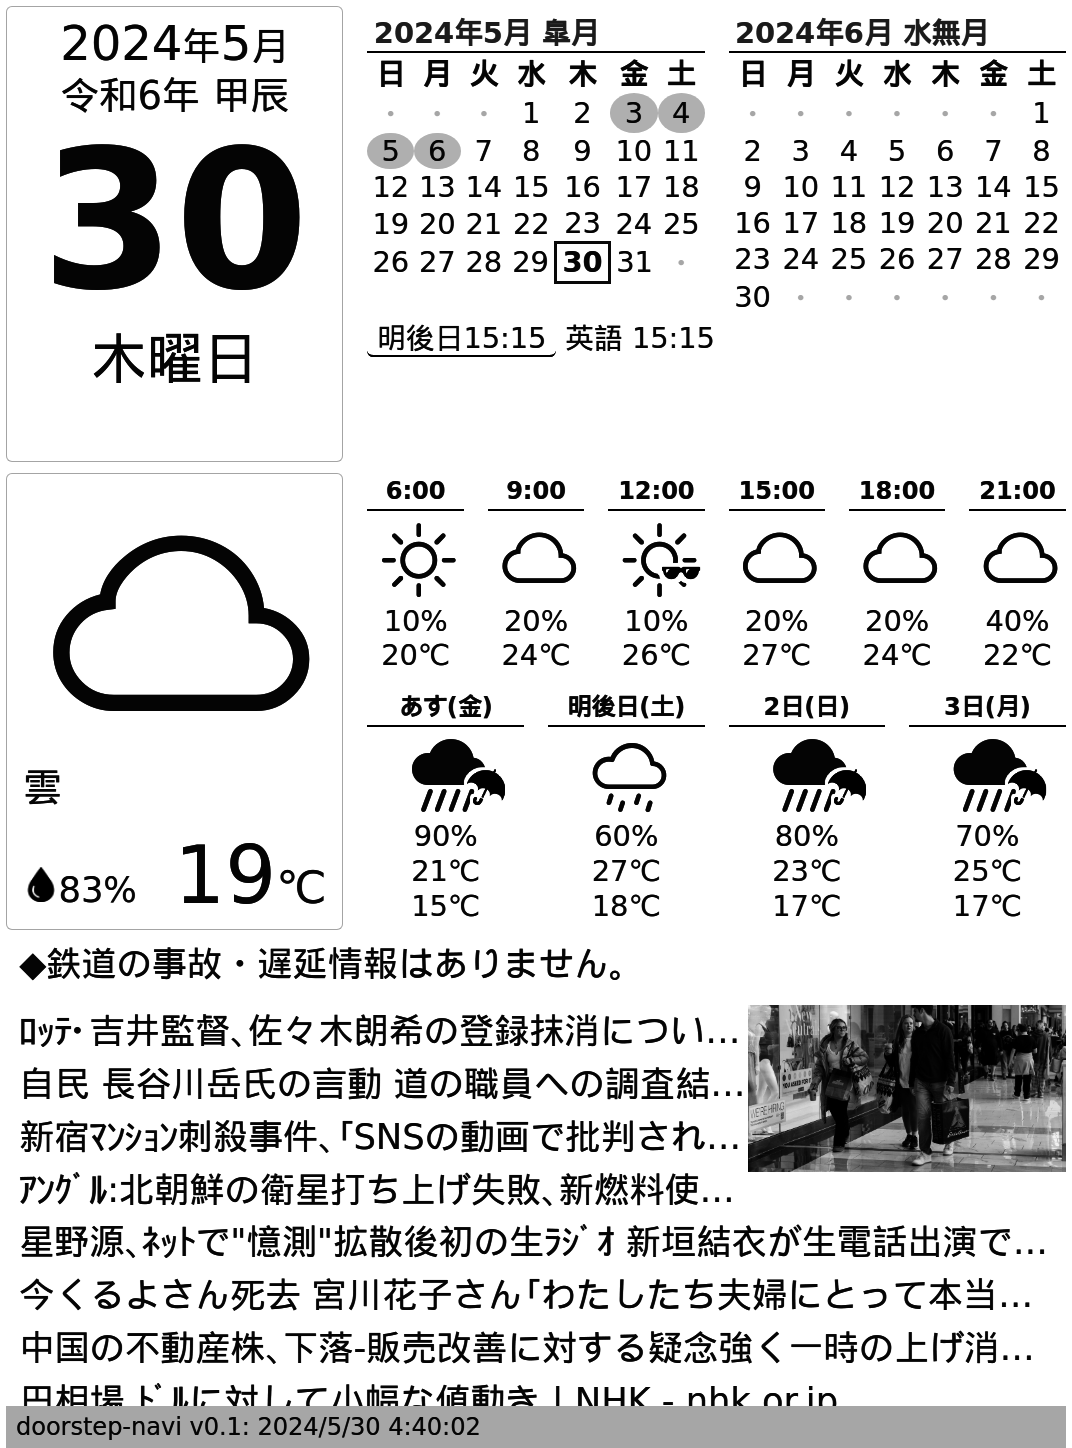
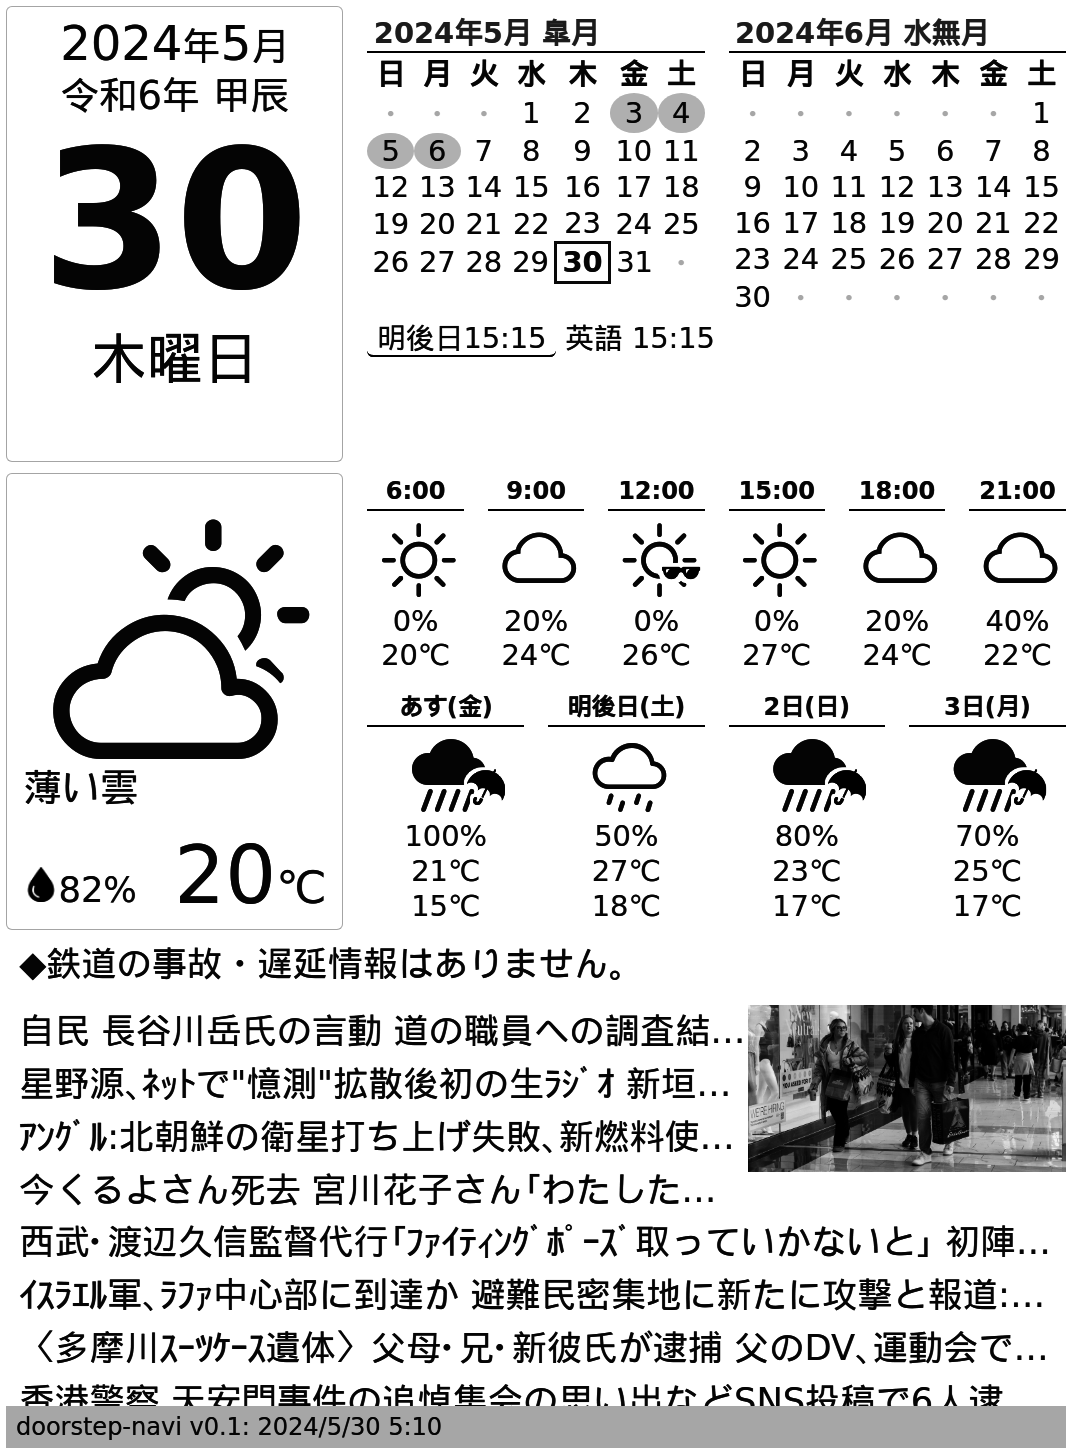
change % and ℃ as css

diff --git a/public/data.js b/public/data.js
@@ -74,32 +74,32 @@ const DATA = {
         "rise": 1717010828,
         "set": 1717062589
       },
-      "time": 1717011602000,
-      "date": "2024/5/30 4:40:02",
-      "temperature": 19.49,
-      "humidity": 83,
+      "time": 1717013403000,
+      "date": "2024/5/30 5:10:03",
+      "temperature": 19.74,
+      "humidity": 82,
       "wind": 1.03,
       "pop": null,
       "rain": 0,
       "pressure": 1014,
       "uvi": 0,
-      "clouds": 40,
+      "clouds": 20,
       "visibility": 10000,
-      "icon": "cloud",
-      "description": "雲"
+      "icon": "cloud-sun",
+      "description": "薄い雲"
     },
     "3-hourly": [
       {
         "wind": 1,
         "pressure": 1014,
         "uvi": 0.48,
-        "clouds": 36,
+        "clouds": 20,
         "visibility": 10000,
         "time": 1717016400000,
         "date": "2024/5/30 6:00:00",
-        "pop": 10,
+        "pop": 0,
         "rain": 0,
-        "temperature": 19.8,
+        "temperature": 19.5,
         "humidity": 91,
         "description": "晴れ",
         "icon": "sun"
@@ -108,14 +108,14 @@ const DATA = {
         "wind": 2,
         "pressure": 1016,
         "uvi": 4.74,
-        "clouds": 33,
+        "clouds": 29,
         "visibility": 10000,
         "time": 1717027200000,
         "date": "2024/5/30 9:00:00",
         "pop": 20,
         "rain": 0,
         "temperature": 23.6,
-        "humidity": 69,
+        "humidity": 68,
         "description": "曇り",
         "icon": "cloud"
       },
@@ -127,27 +127,27 @@ const DATA = {
         "visibility": 10000,
         "time": 1717038000000,
         "date": "2024/5/30 12:00:00",
-        "pop": 10,
+        "pop": 0,
         "rain": 0,
-        "temperature": 26.2,
+        "temperature": 26.3,
         "humidity": 57,
         "description": "晴れ",
         "icon": "sun"
       },
       {
-        "wind": 3,
+        "wind": 2,
         "pressure": 1014,
         "uvi": 3.78,
         "clouds": 85,
         "visibility": 10000,
         "time": 1717048800000,
         "date": "2024/5/30 15:00:00",
-        "pop": 20,
+        "pop": 0,
         "rain": 0,
-        "temperature": 27.4,
-        "humidity": 57,
-        "description": "曇り",
-        "icon": "cloud"
+        "temperature": 27.3,
+        "humidity": 58,
+        "description": "晴れ",
+        "icon": "sun"
       },
       {
         "wind": 2,
@@ -159,8 +159,8 @@ const DATA = {
         "date": "2024/5/30 18:00:00",
         "pop": 20,
         "rain": 0,
-        "temperature": 24.4,
-        "humidity": 67,
+        "temperature": 24.3,
+        "humidity": 68,
         "description": "曇り",
         "icon": "cloud"
       },
@@ -174,8 +174,8 @@ const DATA = {
         "date": "2024/5/30 21:00:00",
         "pop": 40,
         "rain": 0,
-        "temperature": 22,
-        "humidity": 78,
+        "temperature": 21.9,
+        "humidity": 77,
         "description": "曇り",
         "icon": "cloud"
       },
@@ -187,12 +187,12 @@ const DATA = {
         "visibility": 10000,
         "time": 1717081200000,
         "date": "2024/5/31 0:00:00",
-        "pop": 40,
+        "pop": 60,
         "rain": 0,
-        "temperature": 20.2,
-        "humidity": 78,
-        "description": "曇り",
-        "icon": "cloud"
+        "temperature": 20.1,
+        "humidity": 79,
+        "description": "小雨",
+        "icon": "cloud-drizzle"
       },
       {
         "wind": 1,
@@ -203,9 +203,9 @@ const DATA = {
         "time": 1717092000000,
         "date": "2024/5/31 3:00:00",
         "pop": 90,
-        "rain": 2,
-        "temperature": 18.3,
-        "humidity": 82,
+        "rain": 3,
+        "temperature": 18.2,
+        "humidity": 83,
         "description": "弱雨",
         "icon": "cloud-drizzle-fill"
       },
@@ -217,12 +217,12 @@ const DATA = {
         "visibility": 3960,
         "time": 1717102800000,
         "date": "2024/5/31 6:00:00",
-        "pop": 90,
-        "rain": 3,
-        "temperature": 17.5,
-        "humidity": 84,
-        "description": "弱雨",
-        "icon": "cloud-drizzle-fill"
+        "pop": 100,
+        "rain": 5,
+        "temperature": 17.1,
+        "humidity": 85,
+        "description": "雨",
+        "icon": "cloud-rain-heavy-fill"
       },
       {
         "wind": 3,
@@ -232,10 +232,10 @@ const DATA = {
         "visibility": 5160,
         "time": 1717113600000,
         "date": "2024/5/31 9:00:00",
-        "pop": 90,
+        "pop": 100,
         "rain": 5,
-        "temperature": 15.4,
-        "humidity": 90,
+        "temperature": 15.2,
+        "humidity": 91,
         "description": "雨",
         "icon": "cloud-rain-heavy-fill"
       },
@@ -248,9 +248,9 @@ const DATA = {
         "time": 1717124400000,
         "date": "2024/5/31 12:00:00",
         "pop": 90,
-        "rain": 2,
-        "temperature": 16.7,
-        "humidity": 86,
+        "rain": 3,
+        "temperature": 16.6,
+        "humidity": 87,
         "description": "弱雨",
         "icon": "cloud-drizzle-fill"
       },
@@ -279,8 +279,8 @@ const DATA = {
         "date": "2024/5/31 18:00:00",
         "pop": 30,
         "rain": 0,
-        "temperature": 20.7,
-        "humidity": 73,
+        "temperature": 20.6,
+        "humidity": 74,
         "description": "曇り",
         "icon": "cloud"
       },
@@ -320,7 +320,7 @@ const DATA = {
         "time": 1716994800000,
         "date": "2024/5/30 0:00:00",
         "pop": 60,
-        "rain": 0,
+        "rain": 1,
         "temperature": {
           "min": 18,
           "max": 28
@@ -331,8 +331,8 @@ const DATA = {
       {
         "time": 1717081200000,
         "date": "2024/5/31 0:00:00",
-        "pop": 90,
-        "rain": 39,
+        "pop": 100,
+        "rain": 45,
         "temperature": {
           "min": 15,
           "max": 21
@@ -343,13 +343,13 @@ const DATA = {
       {
         "time": 1717167600000,
         "date": "2024/6/1 0:00:00",
-        "pop": 60,
+        "pop": 50,
         "rain": 1,
         "temperature": {
           "min": 18,
           "max": 27
         },
-        "description": "曇時々雨",
+        "description": "晴時々雨",
         "icon": "cloud-drizzle"
       },
       {

diff --git a/public/assets/javascripts/app.js b/public/assets/javascripts/app.js
@@ -274,10 +274,10 @@
       discomfortIndex = calculateDiscomfortIndex(current.temperature, current.humidity);
 
       const div = $.getElementById("weather-now");
-      div.querySelector(".weather-icon").setAttribute("class", `weather-icon bi bi-${current.icon}`);
       div.querySelector(".weather-title").textContent = current.description;
       div.querySelector(".weather-temp-value").textContent = num(current.temperature);
       div.querySelector(".weather-humidity-value").textContent = num(current.humidity);
+      addWeatherIcon(div, current.icon);
       if (current.humidity >= 60) {
         div.querySelector(".weather-humidity-icon").setAttribute("src", "assets/images/weather/humidity60.png");
       }
@@ -292,7 +292,9 @@
       }
       addSungrassesIfUVI(div, current.uvi);
       addAmbrellaIfRain(div, current.pop, current.rain);
-      status(new Date(current.time).toLocaleString("ja-JP"));
+      status(new Date(current.time).toLocaleString("ja-JP", {
+        year: "numeric", month: "numeric", day: "numeric", hour: "numeric", "minute": "numeric"
+      }));
     })();
 
     // 0, 3, 6, 9, 12, 15, 18, 21 時の天気を表示する
@@ -301,9 +303,9 @@
       const time = new Date(h.time);
       const div = $.getElementById(`weather-h${j}`);
       div.querySelector(".weather-time").textContent = time.getHours() + ":00"
-      div.querySelector(".weather-icon").setAttribute("class", `weather-icon bi bi-${h.icon}`);
-      div.querySelector(".weather-pop").textContent = num(h.pop) + "%";
-      div.querySelector(".weather-temp").textContent = num(h.temperature) + "℃";
+      div.querySelector(".weather-pop").textContent = num(h.pop);
+      div.querySelector(".weather-temp").textContent = num(h.temperature);
+      addWeatherIcon(div, h.icon);
       addSungrassesIfUVI(div, h.uvi);
       addAmbrellaIfRain(div, h.pop, h.rain);
       addThermometerIfExtremelyHotDay(div, h.temperature);
@@ -316,10 +318,10 @@
       const dayTitle = getDateName(today, time);
       const div = $.getElementById(`weather-d${j}`);
       div.querySelector(".weather-time").textContent = dayTitle;
-      div.querySelector(".weather-icon").setAttribute("class", `weather-icon bi bi-${d.icon}`);
-      div.querySelector(".weather-pop").textContent = num(d.pop) + "%";
-      div.querySelector(".weather-temp-high").textContent = num(d.temperature.max) + "℃";
-      div.querySelector(".weather-temp-low").textContent = num(d.temperature.min) + "℃";
+      div.querySelector(".weather-pop").textContent = num(d.pop);
+      div.querySelector(".weather-temp-high").textContent = num(d.temperature.max);
+      div.querySelector(".weather-temp-low").textContent = num(d.temperature.min);
+      addWeatherIcon(div, d.icon);
       addSungrassesIfUVI(div, d.uvi);
       addAmbrellaIfRain(div, d.pop, d.rain);
       addThermometerIfExtremelyHotDay(div, d.temperature.max);

diff --git a/weather.js b/weather.js
@@ -20,6 +20,7 @@ export async function getWeatherForecast(apiKey, latitude, longitude) {
 
   // OpenWeatherMap API のレスポンスを doorstep-navi 互換形式に変換
   function openWeatherToDoorStepNavi(point) {
+    const rain = (r => r === undefined || r === null ? undefined : typeof r === "number" ? r : typeof r["1h"] === "number" ? r["1h"] : undefined)(point.rain);
     return {
       "time": point.dt * 1000,
       "date": new Date(point.dt * 1000).toLocaleString("ja-JP"),
@@ -27,12 +28,12 @@ export async function getWeatherForecast(apiKey, latitude, longitude) {
       "humidity": point.humidity,
       "wind": point.wind_speed,
       "pop": (p => typeof p === "number" ? p * 100 : undefined)(point.pop),
-      "rain": (r => r === undefined || r === null ? undefined : typeof r === "number" ? r : typeof r["1h"] === "number" ? r["1h"] : undefined)(point.rain),
+      "rain": rain,
       "pressure": point.pressure,
       "uvi": point.uvi,
       "clouds": point.clouds,
       "visibility": point.visibility,
-      "icon": getWeatherIcon(point.weather[0].icon, new Date(point.dt * 1000)),
+      "icon": getWeatherIcon(point.weather[0].icon, new Date(point.dt * 1000), point.temp, rain),
       "description": point.weather[0].description
     };
   }
@@ -200,7 +201,7 @@ async function getWeatherFromTenkiJp() {
 
   function addWeatherIcon(list) {
     return list.map((h) => {
-      h["icon"] = getWeatherIcon(h.description, h);
+      h["icon"] = getWeatherIcon(h.description, new Date(h.time), h.temperature, h.rain);
       return h;
     })
   }
@@ -217,6 +218,9 @@ function isDaytime(tm) {
 
 // 指定された気温が真夏日/真冬日かどうかを判断する
 function isExtremeTempDay(temp) {
+  if (typeof temp === "object") {
+    return temp.max >= 30 || temp.min < 0;
+  }
   return temp >= 30 || temp < 0;
 }
 
@@ -225,9 +229,8 @@ function isAmbrellaDay(rain) {
   return rain >= 2.0;
 }
 
-function getWeatherIcon(desc, w) {
-  const tm = new Date(w.time);
-  let extreme = isExtremeTempDay(w.temperature) || isAmbrellaDay(w.rain);
+function getWeatherIcon(desc, tm, temp, rain) {
+  let extreme = isExtremeTempDay(temp) || isAmbrellaDay(rain);
   const symbol = (() => {
     switch (desc) {
       case "01d":

diff --git a/public/assets/css/style.css b/public/assets/css/style.css
@@ -242,6 +242,16 @@ body {
   white-space: nowrap;
 }
 
+#weather .weather-pop::after {
+  content: "%";
+}
+
+#weather .weather-temp::after,
+#weather .weather-temp-high::after,
+#weather .weather-temp-low::after {
+  content: "℃";
+}
+
 #weather .weather-extremely-hot-day {
   vertical-align: middle;
   height: 1.8rem;
